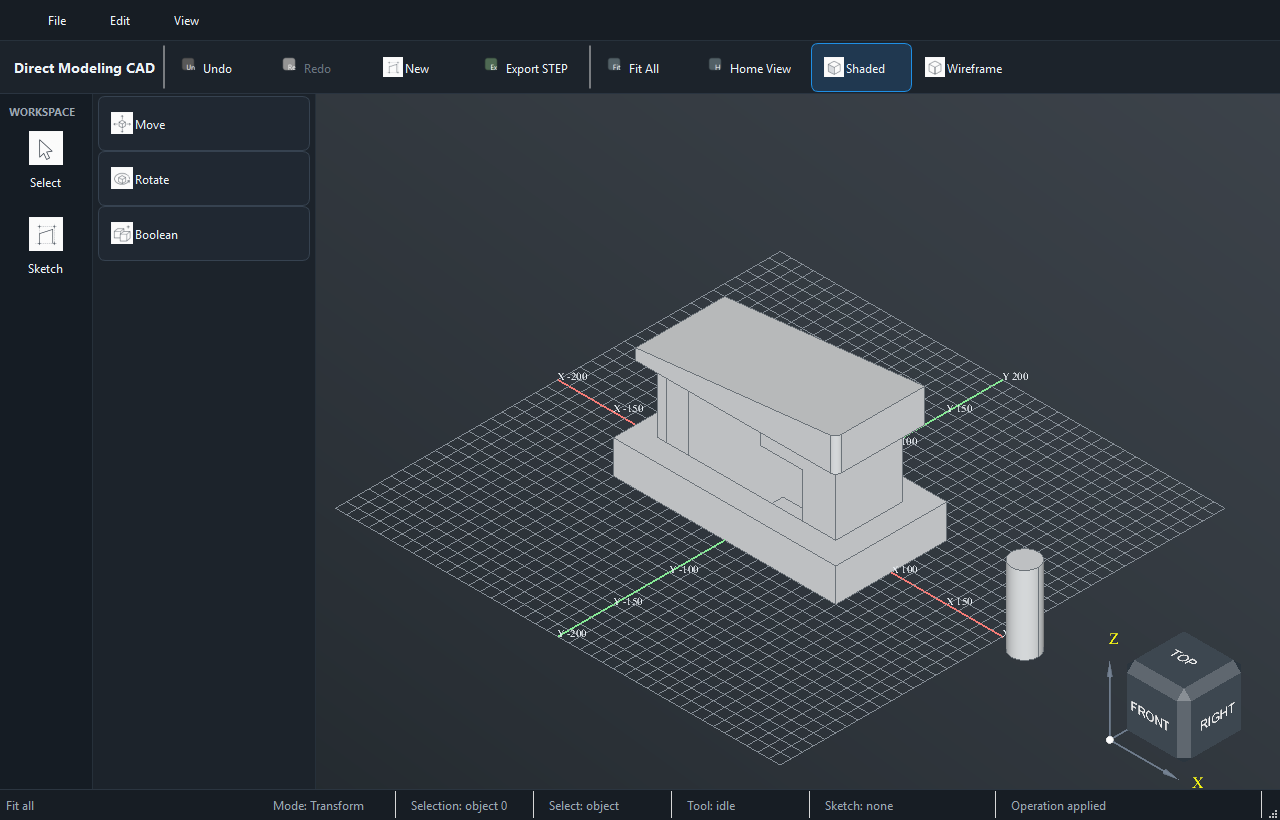
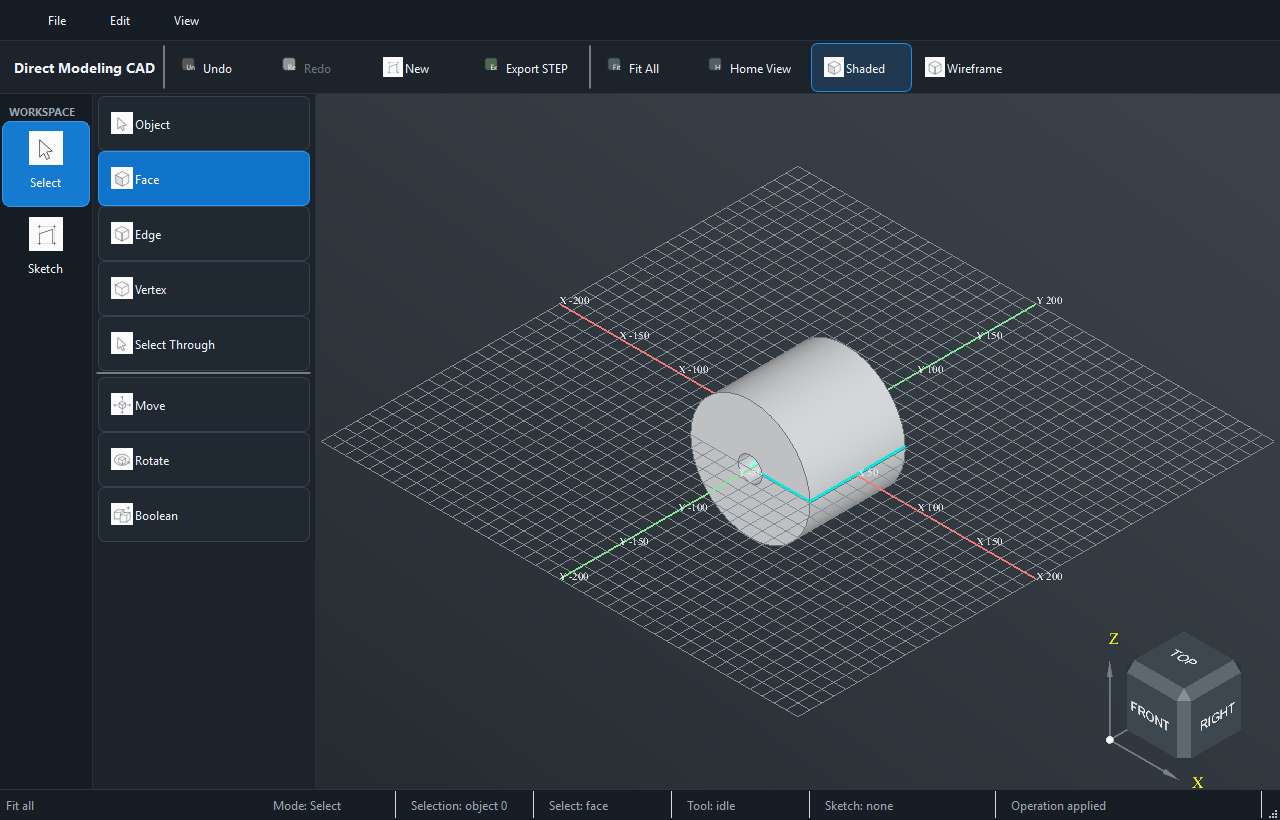
docs: use tube screenshot as README hero

diff --git a/README.md b/README.md
@@ -12,7 +12,7 @@ workflow: sketch → extrude → cut → move → fillet → save → export.
   <br>
   <!-- A short feature-tour GIF can replace this still later:
        <img src="feature_tour.gif" alt="mini-cad feature tour" width="820"> -->
-  <sub><em>Building a small structure: sketch → extrude → boolean, on the live grid.</em></sub>
+  <sub><em>Selection-first: pick a face, edge, or vertex and the matching tools light up.</em></sub>
 </p>
 
 ## ✓ What it does